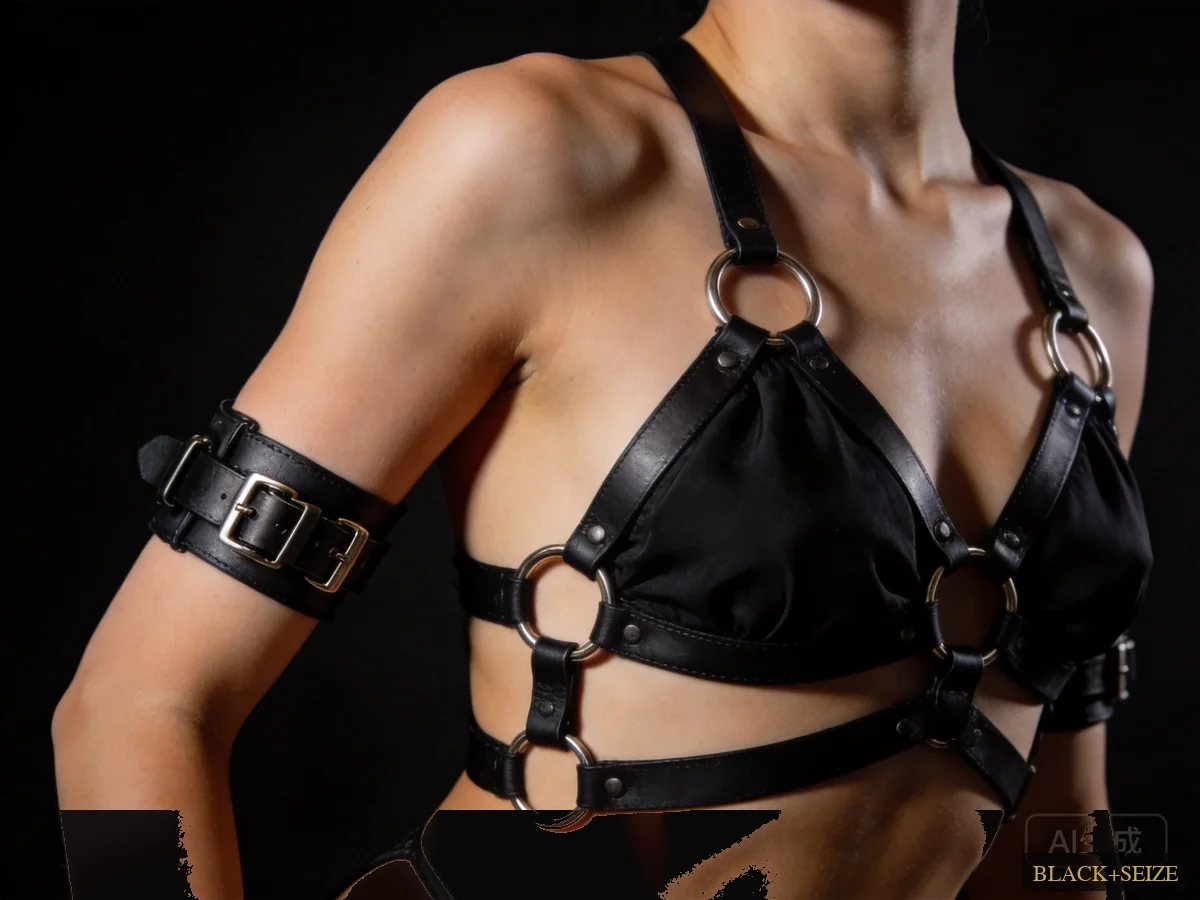
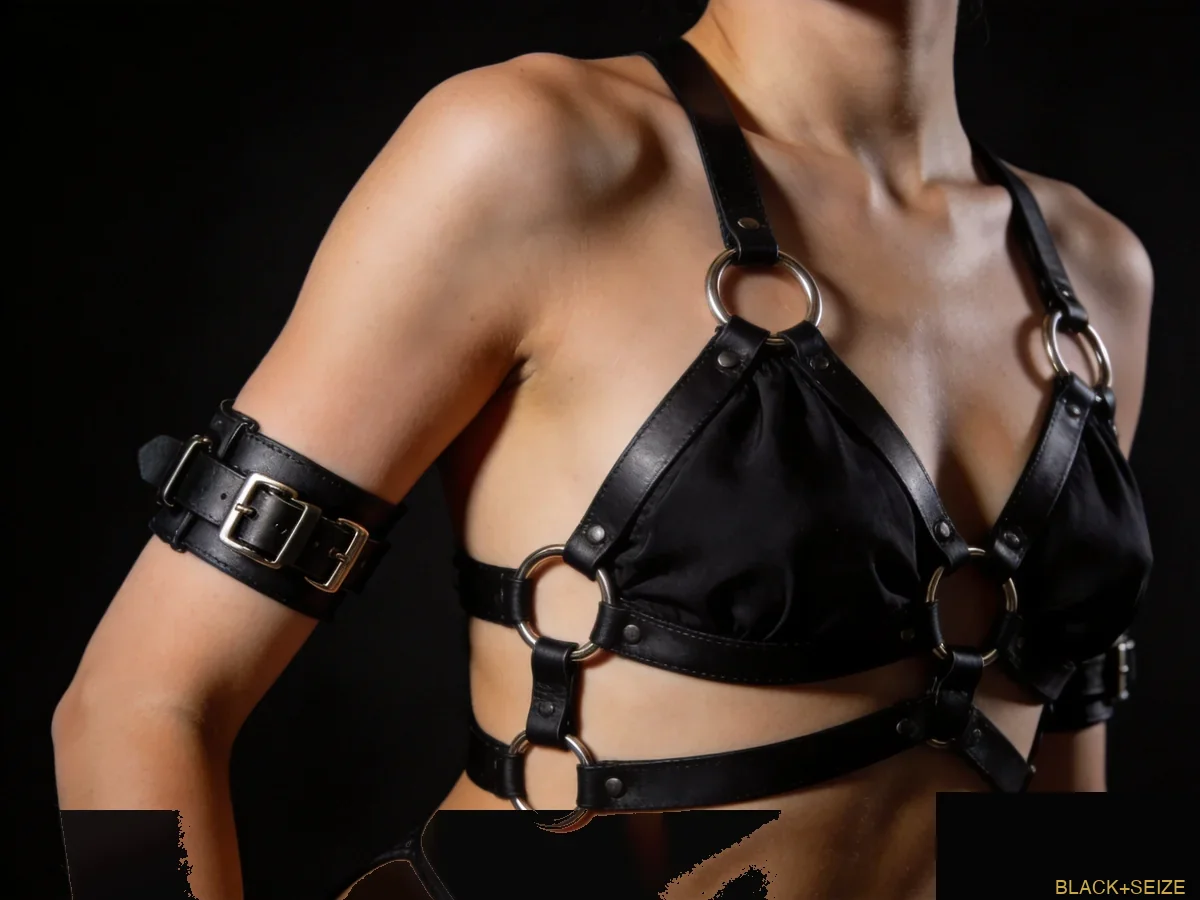
v10.4 - Audit fixes: AI watermark removal (10 imgs), face crop (2 imgs), honest CTA, tag rewrite, size chart weight ref, mobile qixi indicator, brand manifesto dedup, CSS line-clamp

Changed region(s): [[0.7708, 0.8711, 0.9867, 1.0]]

diff --git a/index.html b/index.html
@@ -176,6 +176,10 @@ a:focus-visible,button:focus-visible{
   transition:color .3s;min-height:44px;display:flex;align-items:center;
 }
 .mobile-menu a:hover,.mobile-menu a.active{color:var(--text)}
+.mobile-menu a.mobile-qixi-link{
+  color:var(--gold);border-bottom-color:rgba(201,168,76,.15);
+}
+.mobile-menu a.mobile-qixi-link:hover{color:var(--text)}
 
 /* ============================================
    SECTION BASE
@@ -333,6 +337,8 @@ a:focus-visible,button:focus-visible{
 .product-desc{
   font-size:.82rem;color:var(--text2);
   line-height:1.6;margin-bottom:.5rem;
+  display:-webkit-box;-webkit-line-clamp:3;
+  -webkit-box-orient:vertical;overflow:hidden;
 }
 .product-meta{display:flex;align-items:center;gap:1rem}
 .product-price{font-size:.95rem;font-weight:600;color:var(--text)}
@@ -716,6 +722,7 @@ body.qixi-active .bento-card{border-color:rgba(201,168,76,.08)}
   <a href="#shop" onclick="navigate('shop');closeMenu()">系列</a>
   <a href="#guide" onclick="navigate('guide');closeMenu()">穿搭指南</a>
   <a href="#story" onclick="navigate('story');closeMenu()">品牌故事</a>
+  <a href="#ceremony" onclick="navigate('shop');closeMenu();setTimeout(()=>scrollToSeries('ceremony'),150)" class="mobile-qixi-link" id="mobile-qixi-link" style="display:none;color:var(--gold)">七夕限定 → 仪式系列</a>
 </div>
 
 <!-- MAIN CONTENT -->
@@ -830,10 +837,9 @@ body.qixi-active .bento-card{border-color:rgba(201,168,76,.08)}
   <section class="manifesto" id="manifesto">
     <div class="manifesto-bg"></div>
     <div class="manifesto-content">
-      <div class="manifesto-line anim-manifesto">黑色不是颜色的缺失，</div>
-      <div class="manifesto-line gold anim-manifesto">是所有颜色的总和。</div>
-      <div class="manifesto-line dim anim-manifesto">穿上它，你不再是别人眼中的谁——</div>
-      <div class="manifesto-line anim-manifesto">你是自己选择成为的那个人。</div>
+      <div class="manifesto-line anim-manifesto">黑色是最深的宣言。</div>
+      <div class="manifesto-line gold anim-manifesto">穿上它，你不再是别人眼中的谁。</div>
+      <div class="manifesto-line dim anim-manifesto">你是自己选择成为的那个人。</div>
       <div class="manifesto-divider anim-manifesto"></div>
       <a href="#shop" class="manifesto-cta anim-manifesto" onclick="navigate('shop')">探索暗驭</a>
     </div>
@@ -916,6 +922,7 @@ body.qixi-active .bento-card{border-color:rgba(201,168,76,.08)}
       <a href="#guide" onclick="navigate('home');setTimeout(()=>document.getElementById('guide-section').scrollIntoView(),100)">穿搭指南</a>
       <a href="#story" onclick="navigate('home');setTimeout(()=>document.getElementById('story-section').scrollIntoView(),100)">品牌故事</a>
       <a href="#manifesto" onclick="navigate('home');setTimeout(()=>document.getElementById('manifesto').scrollIntoView(),100)">品牌宣言</a>
+      <a href="javascript:void(0)" onclick="showToast('添加品牌客服微信咨询购买：BLACKSEIZE2026')">咨询购买</a>
     </div>
   </div>
   <div class="footer-bottom">
@@ -974,7 +981,7 @@ const products = {
   },
   sku03: {
     series:'暗涌', seriesLabel:'Core Collection', id:'core',
-    name:'暗涌·网格镂空连体衣', tag:'网纹系列',
+    name:'暗涌·网格镂空连体衣', tag:'全身镂空',
     desc:'「我能驾驭吗？」打开包装的那一刻你还在犹豫，穿上之后一切都有了答案。全身网格如建筑结构般勾勒线条，每一个镂空都精准定位在身体最自信的弧度上。不是你穿它——是它找到你的轮廓，然后为它加冕。',
     price:'¥69',
     main:'images/products/sku03_main.webp', alt:'images/products/sku03_alt.webp',
@@ -982,7 +989,7 @@ const products = {
   },
   sku05: {
     series:'暗涌', seriesLabel:'Core Collection', id:'core',
-    name:'夜宴·高开衩露背睡袍', tag:'晚宴系列',
+    name:'夜宴·高开衩露背睡袍', tag:'丝绒露背',
     desc:'高档丝绒垂坠而下，深 V 露背剪裁配合侧边高开衩——每一步都像在走自己的红毯。白天外披一件西装外套出门，夜晚它就是你的专属高定。暗黑优雅，不露怯。',
     price:'¥89',
     main:'images/products/sku05_main.webp', alt:'images/products/sku05_alt.webp',
@@ -990,7 +997,7 @@ const products = {
   },
   sku06: {
     series:'暗涌', seriesLabel:'Core Collection', id:'core',
-    name:'沉溺·透纱浴袍套装', tag:'签名款',
+    name:'沉溺·透纱浴袍套装', tag:'透纱薄款',
     desc:'薄如蝉翼的纱，透光不透俗。你不需要观众——这件只为镜前的自己存在。配套同色丁字裤，干净的线条抹去一切多余。穿上，关灯，然后重新认识自己。',
     price:'¥89',
     main:'images/products/sku06_main.webp', alt:'images/products/sku06_alt.webp',
@@ -1006,7 +1013,7 @@ const products = {
   },
   sku07: {
     series:'掌控', seriesLabel:'Power Collection', id:'power',
-    name:'掌控·蕾丝绑带胸衣腿环套', tag:'身体地图',
+    name:'掌控·蕾丝绑带胸衣腿环套', tag:'绑带调节',
     desc:'蕾丝绑带如等高线般缠绕身体。胸衣承托轮廓，腿环定义边界——每一条绑带都由你亲手调整，每一处镂空都是你画下的领土。不是束缚，是身体自主权的精密声明。',
     price:'¥89',
     main:'images/products/sku07_main.webp', alt:'images/products/sku07_alt.webp',
@@ -1022,7 +1029,7 @@ const products = {
   },
   sku09: {
     series:'仪式', seriesLabel:'Ceremony Collection', id:'ceremony',
-    name:'至臻·多片蕾丝绑带连体衣', tag:'匠心之作',
+    name:'至臻·多片蕾丝绑带连体衣', tag:'手工拼接',
     desc:'多片法国蕾丝手工拼接，全身绑带系统——这不是日常消费品，是你为某个夜晚预留的惊喜。复杂工艺只为完美贴合，每一处拼接都是时间与手艺的注脚。穿上它，你值得被自己隆重对待。',
     price:'¥128',
     main:'images/products/sku09_main.webp', alt:'images/products/sku09_alt.webp',
@@ -1054,7 +1061,7 @@ function renderProductCard(id) {
       </div>
       <div class="product-info">
         <div class="product-name">${p.name}</div>
-        <div class="product-desc">${p.desc.substring(0,40)}…</div>
+        <div class="product-desc">${p.desc}</div>
         <div class="product-meta"><div class="product-price">${p.price}</div></div>
       </div>
     </div>`;
@@ -1154,21 +1161,21 @@ function openDetail(id) {
       <div class="detail-specs">
         <h4>尺码指南</h4>
         <table class="size-table">
-          <thead><tr><th>尺码</th><th>胸围 (cm)</th><th>腰围 (cm)</th><th>臀围 (cm)</th></tr></thead>
+          <thead><tr><th>尺码</th><th>胸围 (cm)</th><th>腰围 (cm)</th><th>臀围 (cm)</th><th>参考体重</th></tr></thead>
           <tbody>
-            <tr><td>S</td><td>80-84</td><td>62-66</td><td>86-90</td></tr>
-            <tr><td>M</td><td>84-88</td><td>66-70</td><td>90-94</td></tr>
-            <tr><td>L</td><td>88-92</td><td>70-74</td><td>94-98</td></tr>
+            <tr><td>S</td><td>80-84</td><td>62-66</td><td>86-90</td><td>40-47kg</td></tr>
+            <tr><td>M</td><td>84-88</td><td>66-70</td><td>90-94</td><td>47-55kg</td></tr>
+            <tr><td>L</td><td>88-92</td><td>70-74</td><td>94-98</td><td>55-62kg</td></tr>
           </tbody>
         </table>
-        <p style="margin-top:1rem;font-size:.78rem;color:var(--text3);line-height:1.6">* 均码产品适合 S-M 身材，手工测量存在 1-2cm 误差。</p>
+        <p style="margin-top:1rem;font-size:.78rem;color:var(--text3);line-height:1.6">* 均码产品适合 S-M 身材，手工测量存在 1-2cm 误差。体重参考基于身高160cm标准体型，实际选码请结合三围数据。</p>
       </div>
       <div class="detail-specs">
         <h4>洗护指南</h4>
         <p style="font-size:.85rem;color:var(--text2);line-height:1.8">手洗最佳，水温不超过30°C。使用中性洗涤剂，避免漂白。阴凉处自然晾干，不可烘干。真丝及蕾丝产品建议干洗。深色产品首次洗涤可能出现轻微浮色，属正常现象。</p>
       </div>
       <div class="detail-actions">
-        <button class="detail-primary" onclick="showToast('即将上架，敬请期待')" aria-label="即将上架">即将上架</button>
+        <button class="detail-primary" onclick="showToast('添加品牌客服微信咨询购买：BLACKSEIZE2026')" aria-label="咨询购买">咨询购买</button>
         <button class="detail-secondary" onclick="showToast('已登记，到货通知已开启','success')" aria-label="到货提醒">到货提醒</button>
       </div>
     </div>`;
@@ -1234,6 +1241,9 @@ function checkQixiStatus() {
     // Nav indicator
     const navInd = document.getElementById('qixi-nav-indicator');
     if (navInd) navInd.classList.add('on');
+    // Mobile menu qixi link
+    const mobileQixi = document.getElementById('mobile-qixi-link');
+    if (mobileQixi) mobileQixi.style.display = 'flex';
     // SKU-10 badge (available after renderAllGrids)
     setTimeout(() => {
       const badge = document.getElementById('qixi-badge-sku10');
@@ -1253,6 +1263,9 @@ function dismissQixi() {
   if (navInd) navInd.classList.remove('on');
   const badge = document.getElementById('qixi-badge-sku10');
   if (badge) badge.classList.remove('on');
+  // Mobile menu qixi link
+  const mobileQixi = document.getElementById('mobile-qixi-link');
+  if (mobileQixi) mobileQixi.style.display = 'none';
   // Clean up canvases
   const sf = document.getElementById('qixi-starfield');
   if (sf) { sf.classList.remove('on'); const sfc = sf.getContext('2d'); sfc && sfc.clearRect(0,0,sf.width,sf.height); }
